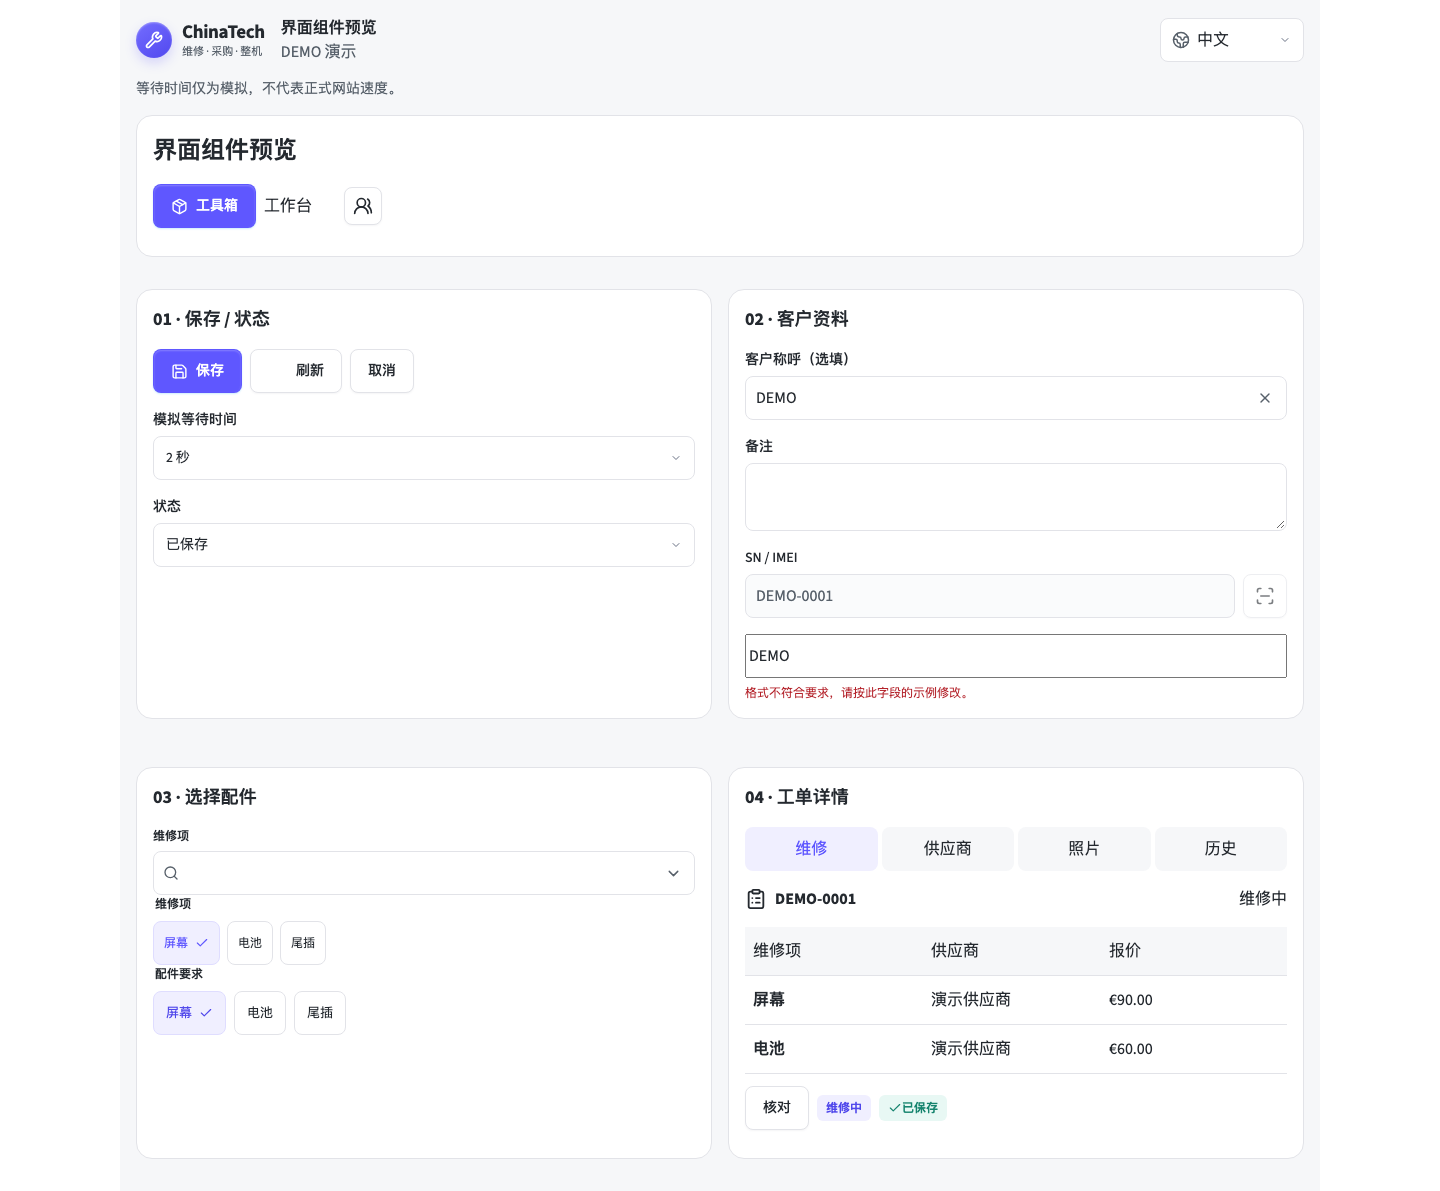
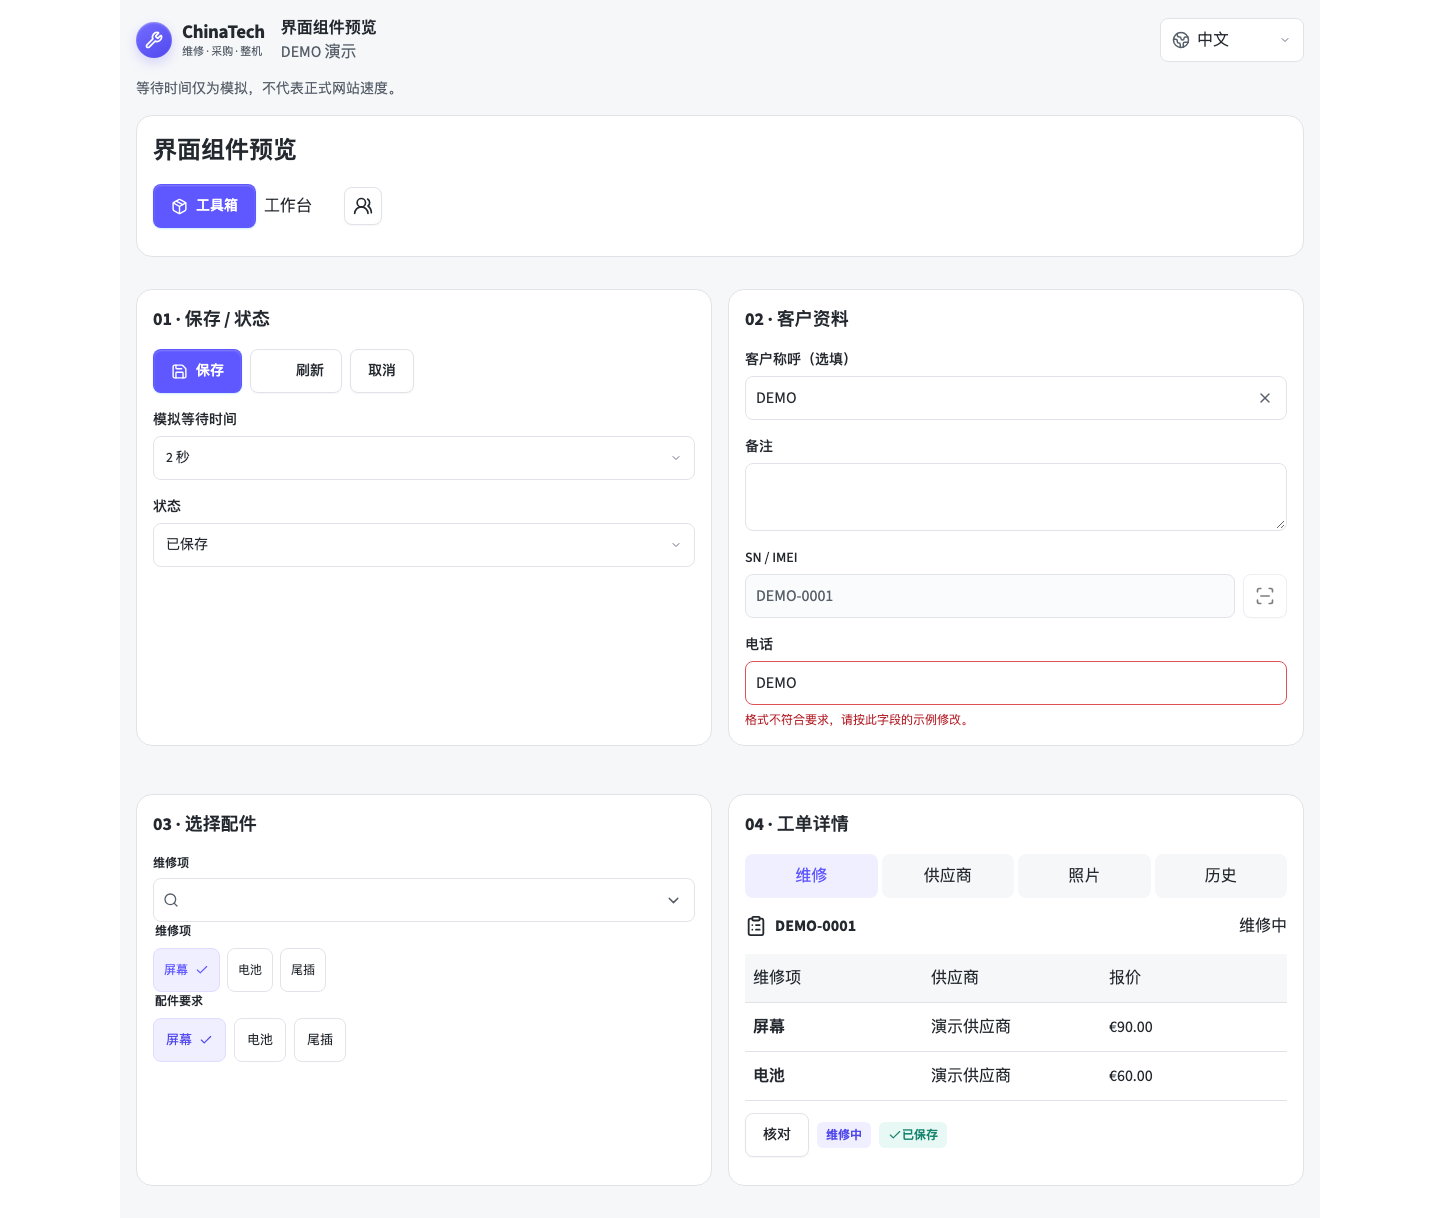
fix: reuse the field layout in the UI error example

diff --git a/ui-design/catalog.tsx b/ui-design/catalog.tsx
@@ -58,7 +58,7 @@ export function UIDesignCatalog({ destination = false }: { destination?: boolean
       {result ? <Toast message={t(result)} onDismiss={() => setResult("")} /> : null}
       {error ? <div className="read-failure" role="alert"><p>{t(error)}</p><button className="button button--secondary" type="button" disabled={busy} onClick={() => void save()}><RefreshCw size={16} />{t("重试")}</button></div> : null}
     </section>
-    <section className={`panel ${styles.section}`}><h2>02 · {t("客户资料")}</h2><div className={styles.fields}><label className="field"><span>{t("客户称呼（选填）")}</span><InputControl aria-label={t("客户称呼（选填）")} value={text} onChange={event => setText(event.target.value)} onClear={() => setText("")} clearLabel={t("清空客户称呼（选填）")} disabled={busy} /></label><label className="field"><span>{t("备注")}</span><TextareaControl aria-label={t("备注")} value={note} onChange={event => setNote(event.target.value)} disabled={busy} /></label><IdentifierField label="SN / IMEI" value="DEMO-0001" onChange={() => {}} readOnly /><InputControl aria-label={t("电话")} value="DEMO" error={t("格式不符合要求，请按此字段的示例修改。")} onChange={() => {}} /></div></section>
+    <section className={`panel ${styles.section}`}><h2>02 · {t("客户资料")}</h2><div className={styles.fields}><label className="field"><span>{t("客户称呼（选填）")}</span><InputControl aria-label={t("客户称呼（选填）")} value={text} onChange={event => setText(event.target.value)} onClear={() => setText("")} clearLabel={t("清空客户称呼（选填）")} disabled={busy} /></label><label className="field"><span>{t("备注")}</span><TextareaControl aria-label={t("备注")} value={note} onChange={event => setNote(event.target.value)} disabled={busy} /></label><IdentifierField label="SN / IMEI" value="DEMO-0001" onChange={() => {}} readOnly /><label className="field"><span>{t("电话")}</span><InputControl aria-label={t("电话")} value="DEMO" error={t("格式不符合要求，请按此字段的示例修改。")} onChange={() => {}} /></label></div></section>
     <section className={`panel ${styles.section}`}><h2>03 · {t("选择配件")}</h2><SearchCombobox label={t("维修项")} value={query} onChange={setQuery} options={options.map(option => ({ ...option, label: t(option.label) }))} /><SingleChoice label="维修项" value={choice} options={options} onChange={setChoice} /><MultiChoice label="配件要求" values={choices} options={options} onChange={setChoices} /></section>
     <section className={`panel ${styles.section}`}><h2>04 · {t("工单详情")}</h2><div className={styles.tabs} role="tablist">{[{ id: "repair", label: "维修" }, { id: "supplier", label: "供应商" }, { id: "photos", label: "照片" }, { id: "history", label: "历史" }].map(item => <button type="button" role="tab" key={item.id} aria-selected={tab === item.id} onClick={() => setTab(item.id)}>{t(item.label)}</button>)}</div><div className={styles.facts}><ClipboardList size={22} /><strong>DEMO-0001</strong><span>{t("维修中")}</span></div><div className={styles.table}><div><span>{t("维修项")}</span><span>{t("供应商")}</span><span>{t("报价")}</span></div><div><strong>{t("屏幕")}</strong><span>{t("演示供应商")}</span><span>€90.00</span></div><div><strong>{t("电池")}</strong><span>{t("演示供应商")}</span><span>€60.00</span></div></div><div className={styles.actions}><button className="button button--secondary" type="button" ref={trigger} onClick={() => dialog.current?.showModal()}>{t("核对")}</button><span className="status-pill status-pill--progress">{t("维修中")}</span><span className="status-pill status-pill--success"><Check size={14} />{t("已保存")}</span></div></section></div>
     <dialog ref={dialog} className="repair-parts-dialog" aria-label={t("核对")} onClose={() => trigger.current?.focus()}><header><h2>{t("核对")}</h2><button className="icon-button" type="button" aria-label={t("关闭")} onClick={() => dialog.current?.close()}><X size={20} /></button></header><p>{t("DEMO 演示")} · {text}</p><footer><button className="button button--secondary" type="button" onClick={() => dialog.current?.close()}>{t("取消")}</button><button className="button button--primary" type="button" onClick={() => dialog.current?.close()}>{t("确认")}</button></footer></dialog>
